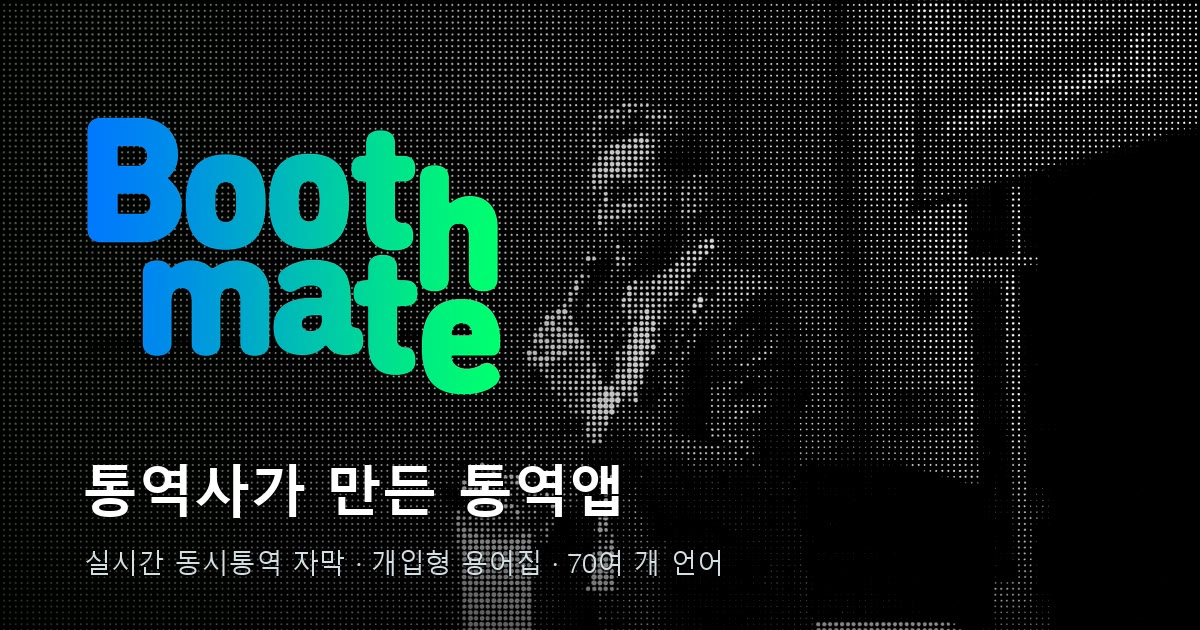
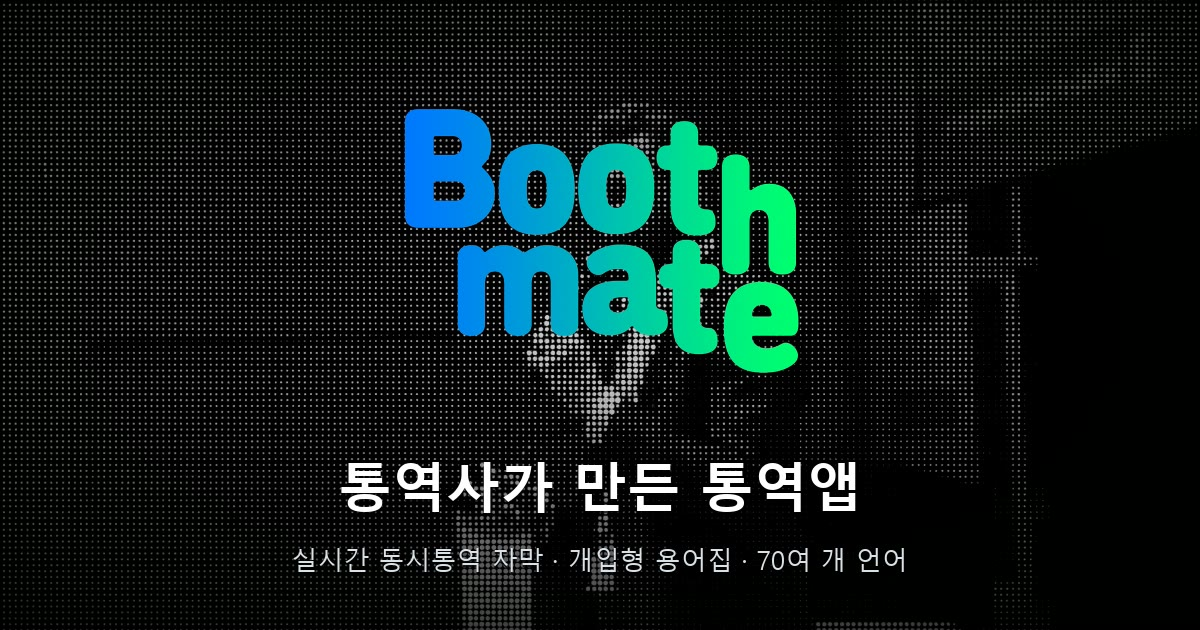
OG 카드 가운데 정렬 재구성 — 카카오 좌우 크롭 대응 (ver. 1.05.10)
- 카카오톡 카드가 이미지 좌우를 잘라내 왼쪽 로고·문구가 잘리던 문제.
- 로고·태그라인·부제를 모두 중앙 정렬로 재배치해 어떤 크롭에도 안전하게.
- og:image 캐시 버스터 ?v=1 → ?v=2.

diff --git a/index.html b/index.html
@@ -14,13 +14,13 @@
 <meta property="og:title" content="Boothmate — 통역사가 만든 통역앱">
 <meta property="og:description" content="국제회의 동시통역사가 만든 실시간 동시통역 자막 앱. 통역사의 두뇌 프로세스를 학습한 번역 엔진, 개입형 용어집, QR 자막, 70여 개 언어 지원.">
 <meta property="og:url" content="https://boothmate.co.kr/">
-<meta property="og:image" content="https://boothmate.co.kr/og_image.jpg?v=1">
+<meta property="og:image" content="https://boothmate.co.kr/og_image.jpg?v=2">
 <meta property="og:image:width" content="1200">
 <meta property="og:image:height" content="630">
 <meta name="twitter:card" content="summary_large_image">
 <meta name="twitter:title" content="Boothmate — 통역사가 만든 통역앱">
 <meta name="twitter:description" content="국제회의 동시통역사가 만든 실시간 동시통역 자막 앱. 개입형 용어집 · QR 자막 · 70여 개 언어 지원.">
-<meta name="twitter:image" content="https://boothmate.co.kr/og_image.jpg?v=1">
+<meta name="twitter:image" content="https://boothmate.co.kr/og_image.jpg?v=2">
 <link rel="preconnect" href="https://cdn.jsdelivr.net">
 <link rel="stylesheet" as="style" crossorigin href="https://cdn.jsdelivr.net/gh/orioncactus/pretendard@v1.3.9/dist/web/variable/pretendardvariable-dynamic-subset.min.css">
 <style>
@@ -803,7 +803,7 @@
       <p>Tel 051-703-6006 · <a href="mailto:dororok@gmail.com">dororok@gmail.com</a></p>
       <p><a href="https://online.boothmate.co.kr/terms.html" target="_blank" rel="noopener">이용약관</a> · <a href="https://online.boothmate.co.kr/privacy.html" target="_blank" rel="noopener">개인정보처리방침</a></p>
     </div>
-    <p>© 2026 Boothmate. All rights reserved. · ver. 1.05.9</p>
+    <p>© 2026 Boothmate. All rights reserved. · ver. 1.05.10</p>
   </div>
 </footer>
 
